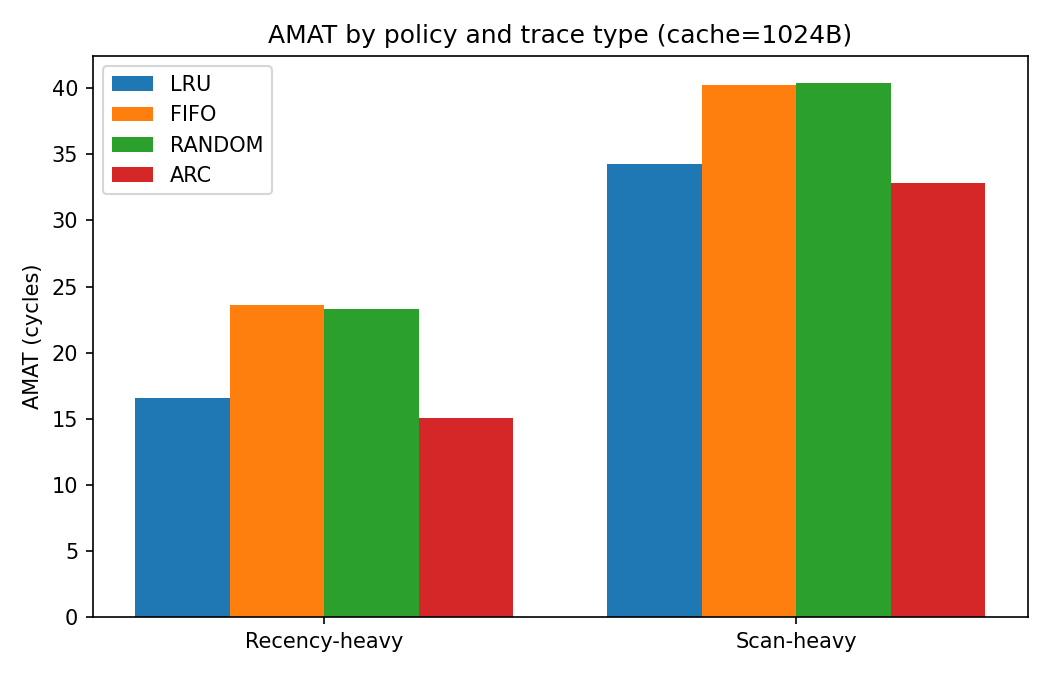
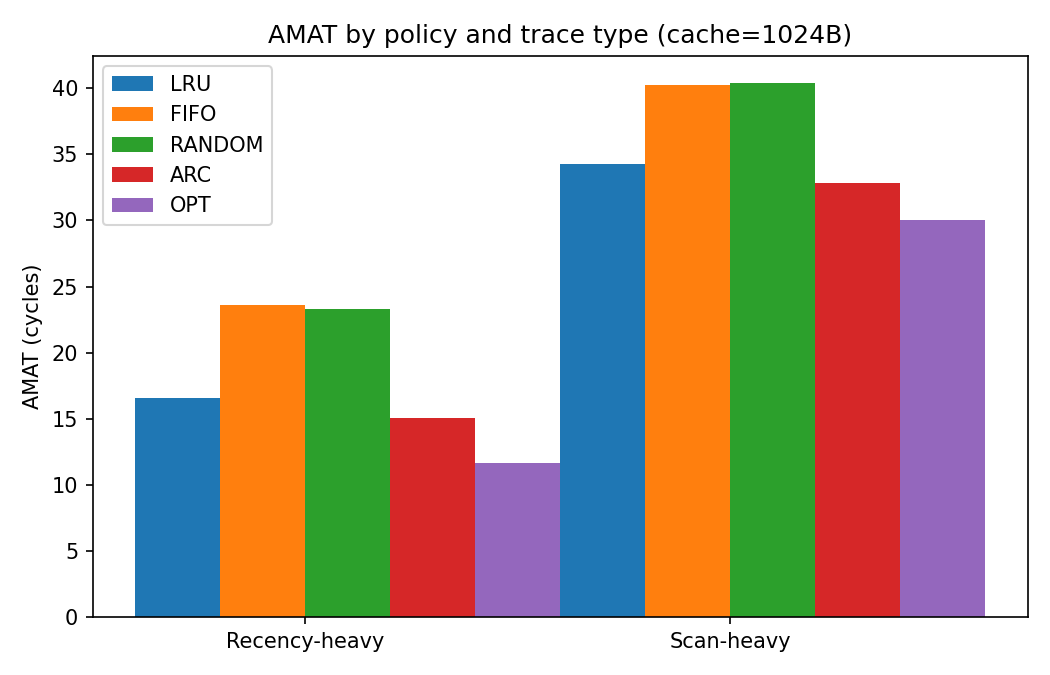
Week3 files upload

diff --git a/matlab/amat_hitrate_model.m b/matlab/amat_hitrate_model.m
@@ -53,7 +53,7 @@ function amat_hitrate_model()
 
     policies = unique(T.policy);
     colours = lines(numel(policies));
-    markers = {'o', 's', '^', 'd'};
+    markers = {'o', 's', '^', 'd', 'p'};
     for i = 1:numel(policies)
         mask = strcmp(T.policy, policies{i});
         scatter(1 - T.hit_rate(mask), T.amat(mask), 60, colours(i, :), ...

diff --git a/python/analyze_cache_results.py b/python/analyze_cache_results.py
@@ -23,7 +23,7 @@ import re
 import os
 import csv
 
-POLICIES = ["lru", "fifo", "random", "arc"]
+POLICIES = ["lru", "fifo", "random", "arc", "opt"]
 TRACE_TYPES = ["recency", "scan"]
 
 

diff --git a/docs/innovation_scan_detection.md b/docs/innovation_scan_detection.md
@@ -1,0 +1,58 @@
+# Innovation Challenge — Design Note (Week 3 Draft)
+
+**Project 7 — Cache Politics — Group 2, Topic 7**
+**Status: design only. Implementation targeted for Week 4.**
+
+## Idea
+
+A **scan-detection heuristic** layered on top of plain LRU: detect a
+run of accesses that are all first-time misses to never-repeated
+addresses (the signature of a full-table sweep, e.g. the SSNIT
+pension-audit scan), and while that run is in progress, switch the
+eviction target from "true LRU victim" to "the line just inserted by
+the scan itself" — i.e. temporarily behave like MRU for scan traffic
+only, so the scan cannot evict the protected working set at all.
+
+This is deliberately a *cheaper* alternative to ARC: O(1) extra state
+per set (a short counter + one flag) versus ARC's four lists per set,
+aimed at recovering most of ARC's scan-resistance without its
+bookkeeping cost — a concrete trade-off the report can quantify.
+
+## Detection signal
+
+Maintain, per set, a small counter `consecutive_misses`. Increment on
+every miss; reset to 0 on every hit. When `consecutive_misses` exceeds
+a threshold `T` (candidate: `T = assoc * 2`, i.e. the set has been
+completely turned over twice in a row with zero reuse), declare
+"scan mode" for that set until the next hit.
+
+## Modified eviction rule while in scan mode
+
+- Normal LRU: evict the true least-recently-used line.
+- Scan mode: evict the line that was itself inserted most recently by
+  the scan (effectively MRU-among-scan-insertions) rather than the
+  working set's genuinely cold lines — i.e. the incoming scan data
+  is allowed to thrash *itself*, not the protected lines that arrived
+  before scan mode was declared.
+
+## Planned evaluation (Week 3–4)
+
+- Implement as a fifth policy, `--policy lru-scan-detect`, sharing the
+  existing LRU line-array core plus the two extra per-set fields.
+- Re-run the Week 3 experiment matrix and the post-scan recovery plot
+  with this policy added alongside LRU/FIFO/Random/ARC/OPT.
+- Success criterion: post-scan recovery hit rate (first window after
+  scan ends) within a small margin of ARC's, at materially lower
+  per-set state (2 extra fields vs. ARC's 4 lists).
+- Explicitly report where it *fails* relative to ARC (e.g. a workload
+  with two interleaved scan-like sub-streams, which a single
+  per-set counter cannot distinguish) — the project brief calls for
+  identifying where an extension's assumptions break, not just where
+  it wins.
+
+## Open questions for Week 4
+
+1. Threshold `T` sensitivity — needs a small sweep, not a single guess.
+2. Whether the same heuristic composed with ARC (rather than plain
+   LRU) is worth trying, or whether that's redundant with what ARC's
+   ghost lists already do.

diff --git a/README.md b/README.md
@@ -1,6 +1,6 @@
-# Cache Politics: Replacement Policy Trade-offs for SSNIT Records Processing
+# Project 7 — Cache Politics: Replacement Policy Trade-offs for SSNIT Records Processing
 
-**CPEN 438 — Advanced Computer Architecture Systems and Design**
+**CPEN 315 / CPEN 733 — Advanced Computer Architecture Systems and Design**
 **Group 2 — Topic 7**
 
 ## Purpose
@@ -87,13 +87,35 @@ above are trusted, per the project's testing requirement. See
 `docs/hand_trace_derivation.md` for the by-hand working this test
 encodes.
 
+## Run the post-scan recovery analysis (Week 3)
+
+```bash
+cd python
+python3 post_scan_recovery.py --sim ../src/cache_sim \
+    --trace ../traces/ssnit_seed2_scan.trace \
+    --size 1024 --assoc 4 --block 64 --out-dir ../results --window 200
+```
+
+Writes `results/post_scan_recovery.csv` and `results/post_scan_recovery.png`,
+showing windowed hit rate for every policy (including OPT) starting from
+the moment the audit scan ends. This is the plot that makes ARC's
+faster-than-LRU recovery visible directly, rather than only as a
+single aggregate hit-rate number.
+
 ## Cross-check the analytical model
 
 In MATLAB, from `matlab/`:
 ```matlab
 amat_hitrate_model
 ```
-(requires `results/experiment_matrix.csv` to already exist.)
+(requires `results/experiment_matrix.csv` to already exist — regenerate
+it with `analyze_cache_results.py` first if you've re-run experiments.)
+Expect console output ending in `PASS: analytical model matches
+simulator output within 0.05 cycles.` plus a saved
+`results/amat_sensitivity_model.png`. (A Python-only cross-check of the
+same formula against the current `experiment_matrix.csv` — for use if
+MATLAB/Octave isn't installed on your machine — confirms a residual of
+~1e-15 cycles, i.e. floating-point noise; see Week 3 report §4.)
 
 ## Reproducing this team's seed
 
@@ -112,5 +134,8 @@ seed reproduces byte-identical traces.
 - [x] Trace generator (recency-heavy + scan-heavy, seeded)
 - [x] Experiment-matrix runner + plots
 - [x] MATLAB analytical AMAT model + validation cross-check
-- [ ] OPT (Belady) comparison — Level 3 extension, targeted for Week 3
-- [ ] Victim-cache extension — Level 3 extension, targeted for Week 3
+- [x] OPT (Belady) comparison — implemented Week 3, confirmed upper bound in all 30 experiment-matrix rows
+- [x] Post-scan hit-rate recovery plot — Week 3
+- [x] MATLAB AMAT model — Python cross-check passing; MATLAB run pending on team hardware
+- [ ] Innovation challenge (scan-detection heuristic) — designed Week 3 (docs/innovation_scan_detection.md), implementation targeted for Week 4
+- [ ] Victim-cache extension — Advanced-level extension, optional for Week 4
